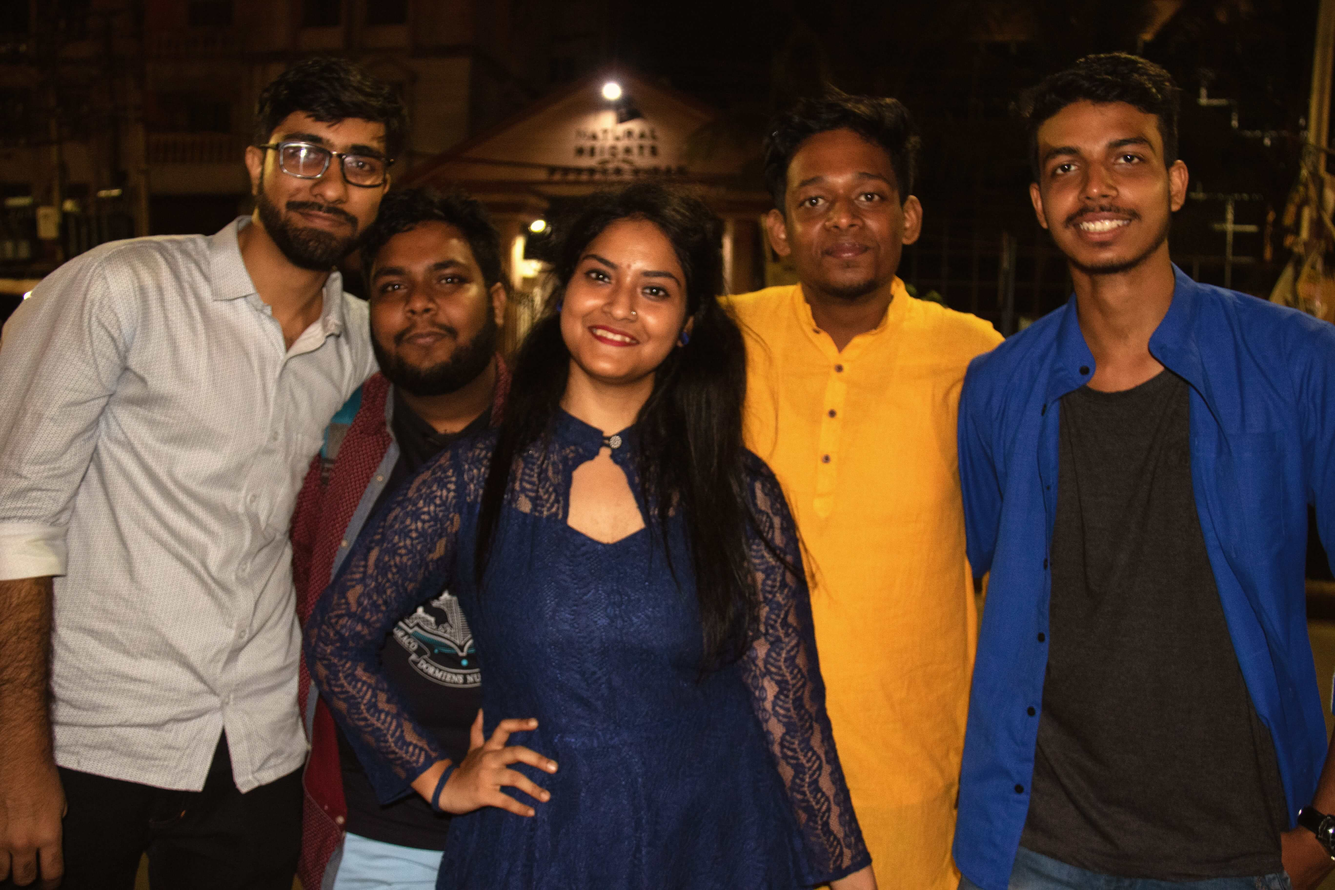
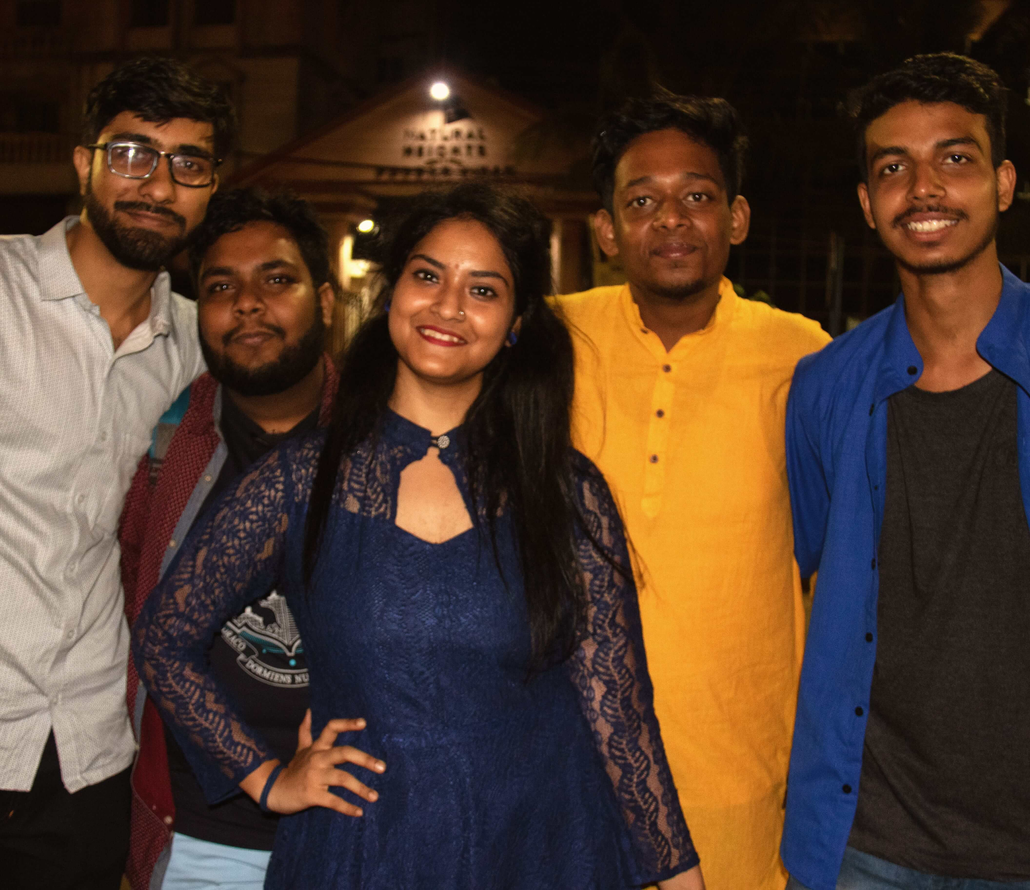
Images trimmed and Font sized increased.

diff --git a/index.html b/index.html
@@ -67,6 +67,11 @@
 	margin-bottom: 50px;
 	padding: 30px 5px 30px 5px;
 }
+.img-carousal {
+  height: 500px;
+  width: 500px;
+  object-fit: cover;
+}
 }
 
 .card-msg{
@@ -81,21 +86,12 @@
 .card-text{
 	font-size: 14px;
 }
-.paromita{
-	background-color: rgba(256, 256,256, .6);
-	padding: 10px;
-	padding-top: 30px;
+.img-carousal {
+  height: 500px;
+  object-fit: cover;
 }
-.paromita p{
-	font-family: 'Lobster-Regular';
-                font-size: 18px;
-                display: inline-block;
-}
-.paromita h3{
-	font-family: 'Lobster-Regular';
-                font-size: 24px;
-				display: inline-block;
-}
+
+
 
 
 </style>
@@ -164,13 +160,12 @@
 			  </div>
 	  </section>
 
-	  <section>
-		<p class="wish">May you be gifted with life’s biggest joys and never-ending bliss. After all, you yourself are a gift to earth, so you deserve the best. 
-			<br/>
-			Happy birthday</p>
+	  <section class="text-center">
+		<p class="wish" style="margin-bottom: 0px;">May you be gifted with life’s biggest joys and never-ending bliss. After all, you yourself are a gift to earth, so you deserve the best. </p>
+		<p class="wish" style="padding-top: 0px; margin-top: 0px; font-size: 48px;">Happy birthday</p>
 	</section>
 
-	<section class="container-fluid">	
+	<section class="container-fluid" style="height: 500px;">	
 		<div id="demo" class="carousel slide" data-ride="carousel">
 
 			<!-- Indicators -->
@@ -189,13 +184,13 @@
 			<!-- The slideshow -->
 			<div class="carousel-inner text-center">
 			  <div class="carousel-item active">
-				<img src="/assets/images/c1.png" alt="Los Angeles" class="image-responsive" height="500px">
+				<img src="/assets/images/c1.png" alt="Los Angeles" class="image-responsive img-carousal">
 			  </div>
 			  <div class="carousel-item">
-				<img src="/assets/images/c2.jpg" alt="Chicago" class="image-responsive" height="500px">
+				<img src="/assets/images/c2.jpg" alt="Chicago" class="image-responsive img-carousal">
 			  </div>
 			  <div class="carousel-item">
-				<img src="/assets/images/c3.jpg" alt="New York" class="image-responsive" height="500px">
+				<img src="/assets/images/c3.jpg" alt="New York" class="image-responsive img-carousal" style="object-fit: cover">
 			  </div>
 			  <div class="carousel-item">
 				<img src="/assets/images/c4.jpeg" alt="New York" class="image-responsive" height="500px">
